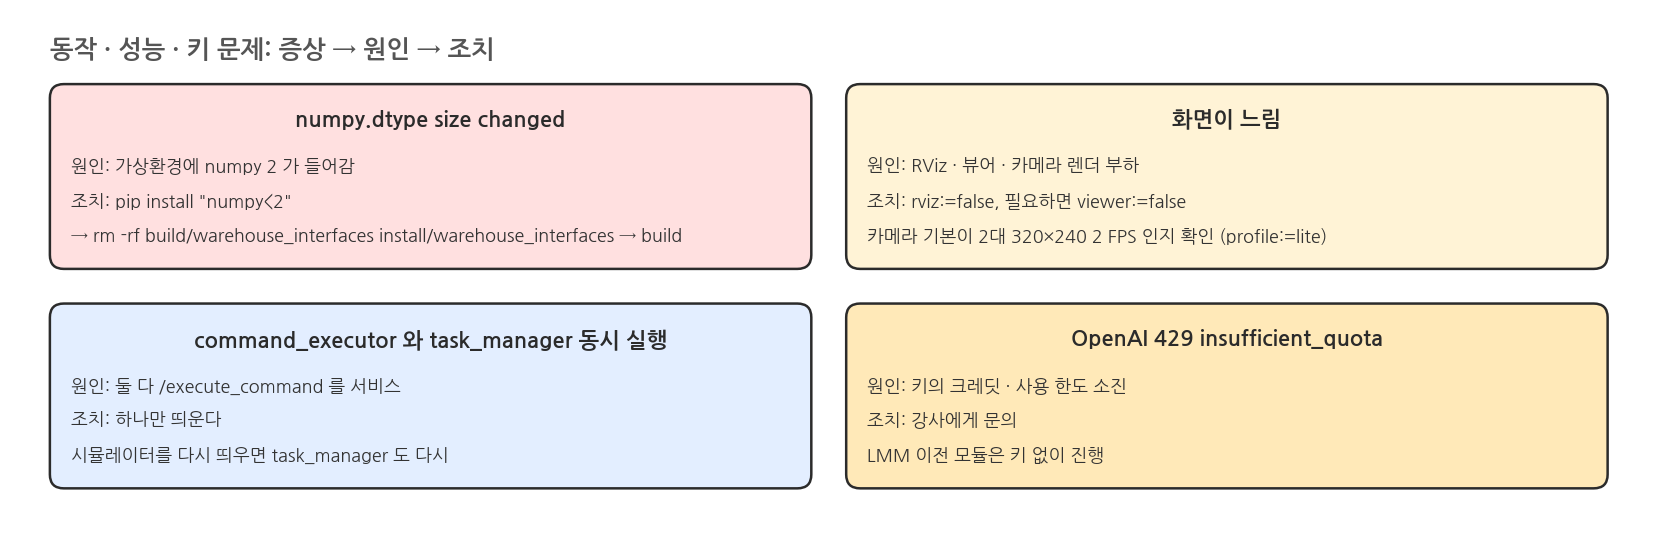
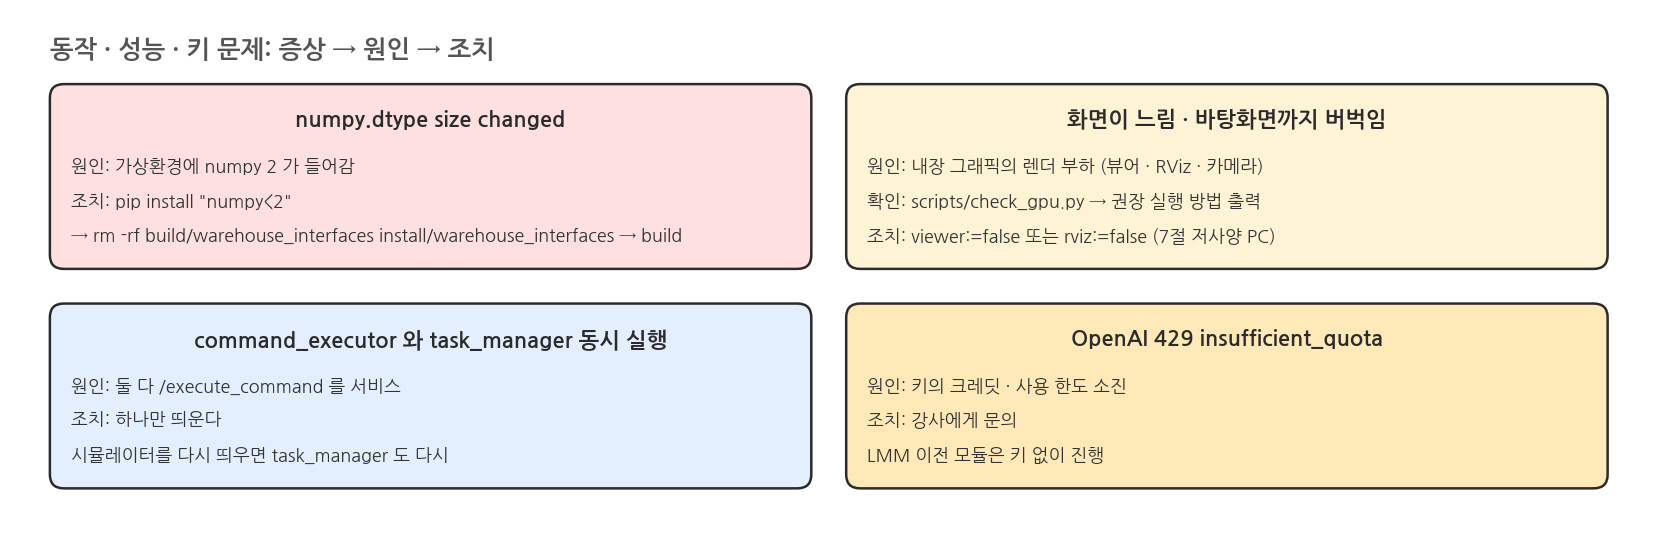
Add scripts/check_gpu.py and a low-spec PC section to the setup page
check_gpu.py prints the OpenGL renderer, viewer FPS with shadows on/off and
camera render time, then recommends lite / rviz:=false / viewer:=false and
PRIME offload when an unused NVIDIA GPU is present. Setup page section 7
(Confluence 3692331054 v28) documents it with real renders and captures.

diff --git a/docs/camp/draw_setup_lowspec_figures.py b/docs/camp/draw_setup_lowspec_figures.py
@@ -1,0 +1,83 @@
+"""Figures for the low-spec PC section of the setup & usage page. Output: docs/camp/setup_lowspec_*.png
+
+setup_lowspec_profile.png  real offscreen renders of the viewer start view, shadows on (full) vs off (lite)
+setup_lowspec_check.png    real scripts/check_gpu.py output on a Ryzen 7 9700X integrated GPU
+setup_lowspec_nvidia.png   real scripts/check_gpu.py output with PRIME render offload to the RTX 5060 Ti
+(setup_lowspec_noviewer.png is a screen capture of `start viewer:=false`, taken by hand with `import -window`.)
+"""
+import sys
+from pathlib import Path
+
+import matplotlib
+matplotlib.use("Agg")
+import matplotlib.pyplot as plt  # noqa: E402
+import mujoco  # noqa: E402
+
+HERE = Path(__file__).parent
+sys.path.insert(0, str(HERE))
+from render_terminal import SANS, render  # noqa: E402
+
+XML = HERE.parents[1] / "artifacts/mobile_generated/warehouse.xml"
+
+
+def profile():
+    m = mujoco.MjModel.from_xml_path(str(XML))
+    d = mujoco.MjData(m)
+    mujoco.mj_forward(m, d)
+    r = mujoco.Renderer(m, 720, 1280)
+    cam = mujoco.MjvCamera()
+    cam.lookat[:] = [0, 0, 0.5]
+    cam.distance, cam.azimuth, cam.elevation = 14, 130, -50
+    opt = mujoco.MjvOption()
+    opt.geomgroup[1] = 0
+    images = []
+    for shadows in (True, False):
+        r.update_scene(d, cam, opt)
+        r.scene.flags[mujoco.mjtRndFlag.mjRND_SHADOW] = shadows
+        images.append(r.render().copy())
+    r.close()
+    # FPS measured by scripts/check_gpu.py on a Ryzen 7 9700X integrated GPU (1280x720).
+    titles = ["profile:=full  ·  그림자 켬  ·  19 FPS", "profile:=lite (기본)  ·  그림자 끔  ·  120 FPS"]
+    fig, axes = plt.subplots(1, 2, figsize=(14, 4.6), dpi=150)
+    for ax, img, title in zip(axes, images, titles):
+        ax.imshow(img)
+        ax.set_title(title, fontsize=13, family=SANS, fontweight="bold")
+        ax.axis("off")
+    fig.text(0.5, 0.02, "Ryzen 7 9700X 내장 그래픽 · 1280×720 · scripts/check_gpu.py 측정 · 카메라 영상은 두 프로파일 모두 그림자 유지",
+             ha="center", fontsize=10, family=SANS, color="#555555")
+    fig.tight_layout(rect=(0, 0.05, 1, 1))
+    fig.savefig(HERE / "setup_lowspec_profile.png", facecolor="white")
+    plt.close(fig)
+
+
+CHECK = "./scripts/mobile_openarm exec python3 scripts/check_gpu.py"
+
+
+def check():
+    render([("prompt", CHECK),
+            ("out", "OpenGL 렌더러      : AMD Ryzen 7 9700X 8-Core Processor (radeonsi, raphael_mendocino, LLVM 20.1.2, ...)"),
+            ("out", "NVIDIA GPU         : 있음, 하지만 렌더링에 쓰이지 않음"),
+            ("out", "측정 중 (약 10초) ..."),
+            ("out", "뷰어 1280x720 그림자 켬 (profile:=full) :   19.1 FPS"),
+            ("out", "뷰어 1280x720 그림자 끔 (profile:=lite) :  119.9 FPS"),
+            ("out", "카메라 320x240 한 장                    :   46.9 ms"),
+            ("out", "권장               : 기본 실행(profile:=lite)으로 충분합니다."),
+            ("out", "NVIDIA 로 렌더링   : __NV_PRIME_RENDER_OFFLOAD=1 __GLX_VENDOR_LIBRARY_NAME=nvidia ./scripts/mobile_openarm start")],
+           HERE / "setup_lowspec_check.png", highlight=("권장", "그림자 끔"))
+
+
+def nvidia():
+    render([("prompt", "__NV_PRIME_RENDER_OFFLOAD=1 __GLX_VENDOR_LIBRARY_NAME=nvidia " + CHECK),
+            ("out", "OpenGL 렌더러      : NVIDIA GeForce RTX 5060 Ti/PCIe/SSE2"),
+            ("out", "측정 중 (약 10초) ..."),
+            ("out", "뷰어 1280x720 그림자 켬 (profile:=full) :  207.6 FPS"),
+            ("out", "뷰어 1280x720 그림자 끔 (profile:=lite) :  869.2 FPS"),
+            ("out", "카메라 320x240 한 장                    :    2.1 ms"),
+            ("out", "권장               : 기본 실행(profile:=lite)으로 충분합니다.")],
+           HERE / "setup_lowspec_nvidia.png", highlight=("OpenGL 렌더러",), width=16.0)
+
+
+if __name__ == "__main__":
+    profile()
+    check()
+    nvidia()

diff --git a/scripts/check_gpu.py b/scripts/check_gpu.py
@@ -1,0 +1,78 @@
+"""Measure how fast this PC renders the warehouse and suggest launch options.
+
+    ./scripts/mobile_openarm exec python3 scripts/check_gpu.py
+    __NV_PRIME_RENDER_OFFLOAD=1 __GLX_VENDOR_LIBRARY_NAME=nvidia ./scripts/mobile_openarm exec python3 scripts/check_gpu.py
+
+Needs the generated model: run ./scripts/mobile_openarm start once first.
+"""
+
+import os
+import shutil
+import sys
+import time
+from pathlib import Path
+
+import mujoco
+
+model_dir = Path(os.environ.get("MOBILE_OPENARM_MODEL_DIR", "artifacts/mobile_generated"))
+xml = model_dir / "warehouse.xml"
+if not xml.exists():
+    sys.exit(f"{xml} 없음: ./scripts/mobile_openarm start 를 한 번 실행한 뒤 다시 시도하세요.")
+
+model = mujoco.MjModel.from_xml_path(str(xml))
+data = mujoco.MjData(model)
+mujoco.mj_forward(model, data)
+option = mujoco.MjvOption()
+option.geomgroup[1] = 0  # visual meshes only, as in the viewer and cameras
+
+
+def fps(width, height, shadows, camera=None, seconds=3.0):
+    renderer = mujoco.Renderer(model, height, width)
+    view = camera
+    if view is None:  # the viewer's start view
+        view = mujoco.MjvCamera()
+        view.lookat[:] = [0, 0, 0.5]
+        view.distance, view.azimuth, view.elevation = 14, 130, -50
+    def draw():
+        renderer.update_scene(data, view, option)
+        renderer.scene.flags[mujoco.mjtRndFlag.mjRND_SHADOW] = shadows
+        renderer.render()
+
+    for _ in range(3):  # warm-up frames
+        draw()
+    frames, start = 0, time.perf_counter()
+    while time.perf_counter() - start < seconds:
+        draw()
+        frames += 1
+    renderer.close()
+    return frames / (time.perf_counter() - start)
+
+
+from OpenGL import GL  # noqa: E402  (valid once a Renderer has made a context)
+
+probe = mujoco.Renderer(model, 64, 64)
+renderer_name = GL.glGetString(GL.GL_RENDERER).decode()
+probe.close()
+nvidia_present = shutil.which("nvidia-smi") is not None or Path("/proc/driver/nvidia").exists()
+on_nvidia = "NVIDIA" in renderer_name.upper()
+
+print(f"OpenGL 렌더러      : {renderer_name}")
+if nvidia_present and not on_nvidia:
+    print("NVIDIA GPU         : 있음, 하지만 렌더링에 쓰이지 않음")
+print("측정 중 (약 10초) ...")
+full = fps(1280, 720, shadows=True)
+lite = fps(1280, 720, shadows=False)
+cam = 1000 / fps(320, 240, shadows=True, camera="head_camera")
+print(f"뷰어 1280x720 그림자 켬 (profile:=full) : {full:6.1f} FPS")
+print(f"뷰어 1280x720 그림자 끔 (profile:=lite) : {lite:6.1f} FPS")
+print(f"카메라 320x240 한 장                    : {cam:6.1f} ms")
+
+if lite >= 30:
+    advice = "기본 실행(profile:=lite)으로 충분합니다."
+elif lite >= 15:
+    advice = "느리면 rviz:=false 를 붙이세요."
+else:
+    advice = "viewer:=false 로 MuJoCo 창 없이 RViz 만 쓰세요."
+print(f"권장               : {advice}")
+if nvidia_present and not on_nvidia:
+    print("NVIDIA 로 렌더링   : __NV_PRIME_RENDER_OFFLOAD=1 __GLX_VENDOR_LIBRARY_NAME=nvidia ./scripts/mobile_openarm start")

diff --git a/docs/camp/draw_setup_detail_figures.py b/docs/camp/draw_setup_detail_figures.py
@@ -324,7 +324,7 @@ def trouble_run():
     fig, ax = fig_ax(14, 4.4)
     note(ax, 0.3, 4.1, "동작 · 성능 · 키 문제: 증상 → 원인 → 조치", bold=True, fs=12)
     tiles(ax, [("numpy.dtype size changed", ["원인: 가상환경에 numpy 2 가 들어감", "조치: pip install \"numpy<2\"", "→ rm -rf build/warehouse_interfaces install/warehouse_interfaces → build"], C["red"]),
-               ("화면이 느림", ["원인: RViz · 뷰어 · 카메라 렌더 부하", "조치: rviz:=false, 필요하면 viewer:=false", "카메라 기본이 2대 320×240 2 FPS 인지 확인 (profile:=lite)"], C["yellow"]),
+               ("화면이 느림 · 바탕화면까지 버벅임", ["원인: 내장 그래픽의 렌더 부하 (뷰어 · RViz · 카메라)", "확인: scripts/check_gpu.py → 권장 실행 방법 출력", "조치: viewer:=false 또는 rviz:=false (7절 저사양 PC)"], C["yellow"]),
                ("command_executor 와 task_manager 동시 실행", ["원인: 둘 다 /execute_command 를 서비스", "조치: 하나만 띄운다", "시뮬레이터를 다시 띄우면 task_manager 도 다시"], C["blue"]),
                ("OpenAI 429 insufficient_quota", ["원인: 키의 크레딧 · 사용 한도 소진", "조치: 강사에게 문의", "LMM 이전 모듈은 키 없이 진행"], C["orange"])],
           cols=2, y_top=3.8, h=1.6, gap=0.3, tfs=10.5, fs=8.6)
